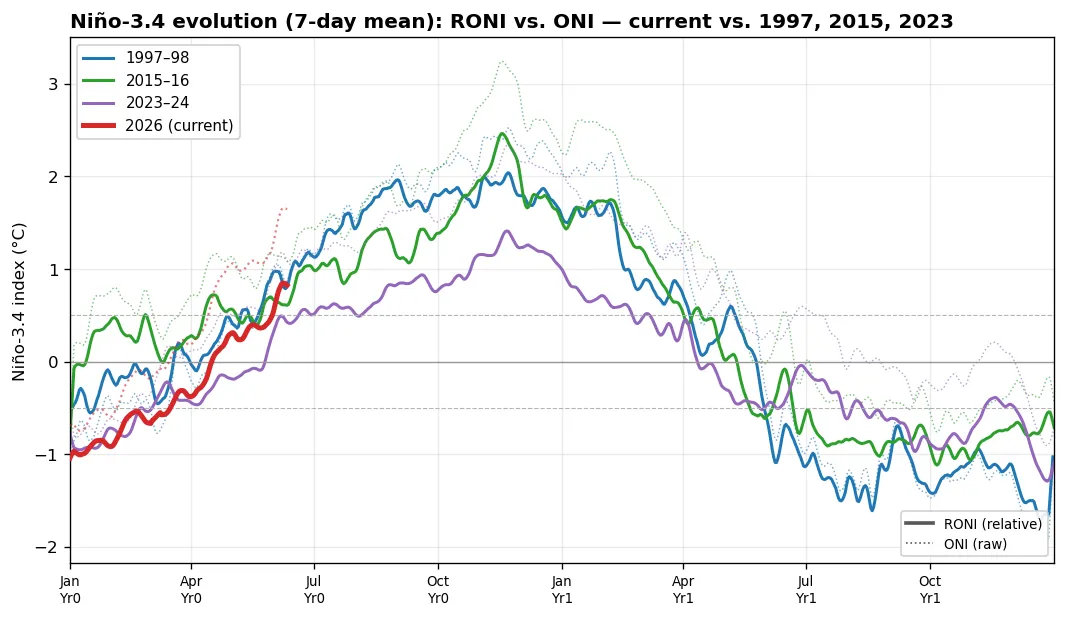
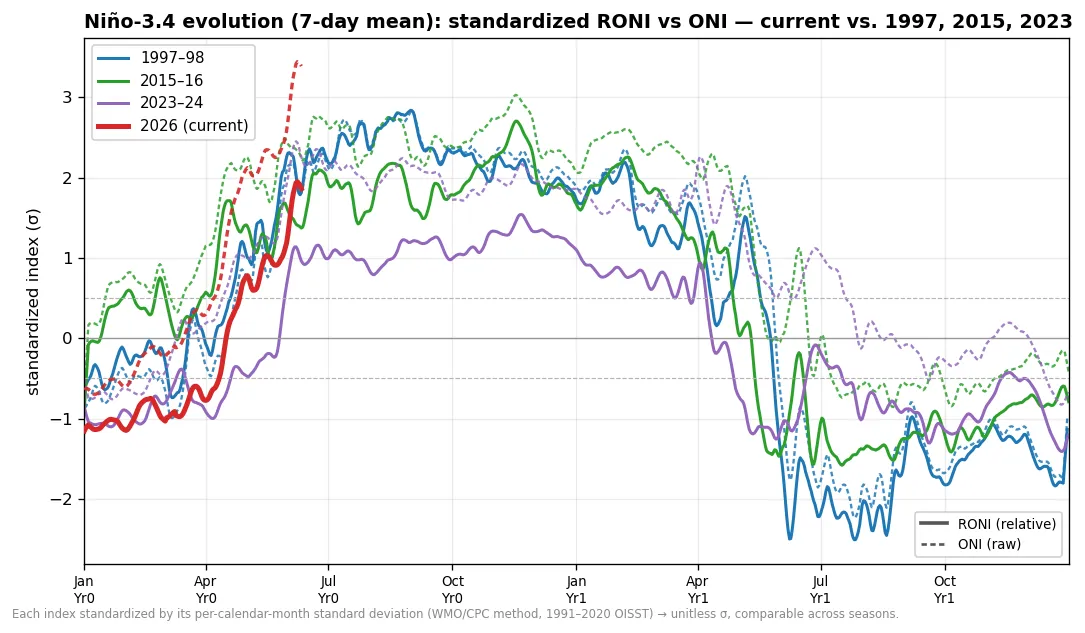
RONI: fix σ-axis overflow on the bar chart; standardize the analog chart to σ + bolder ONI
- render_roni: the standardized-σ line ran off the top because the σ axis was sized off the
  larger (negative) °C side only; size it so BOTH σ extremes fit while keeping zeros aligned.
- Analog "Niño-3.4 evolution" chart now plots the unitless standardized index: RONI and ONI are
  each divided by their own per-calendar-month σ (smoothly interpolated to day-of-year, no
  month-boundary steps), so the comparison is season-normalized; y-axis → σ. build_roni_sigma.py
  now also emits sigma_oni_by_month (raw Niño-3.4 σ) alongside the RONI σ.
- ONI reference lines made clearly visible (alpha 0.6→0.85, thicker, tighter dash) per request.

Changed region(s): [[0.0, 0.0, 0.9906, 0.9854], [0.2477, 0.0924, 0.2786, 0.1232]]

diff --git a/enso-analogs.html b/enso-analogs.html
@@ -262,7 +262,7 @@
         <h2>This Event vs. 1997, 2015 &amp; 2023</h2>
         <p>Niño-3.4 evolution (7-day running mean) through each event's development year and the next. Bold lines are <b>RONI</b> &mdash; the relative index (Niño-3.4 minus the 20&deg;S&ndash;20&deg;N tropical-mean anomaly), which removes the rising warming background so events decades apart are comparable; faint dotted lines are the raw <b>ONI</b> for reference. The current event is red. Note how 2015's record ONI shrinks toward 1997 once the background is removed.</p>
       </div>
-      <div class="img-wrap"><img src="assets/sst/events_nino34.webp?v=2738cc08c7db" alt="Niño-3.4 RONI vs ONI evolution: current event vs 1997/2015/2023" loading="lazy"></div>
+      <div class="img-wrap"><img src="assets/sst/events_nino34.webp?v=0e77b8b51cd5" alt="Niño-3.4 RONI vs ONI evolution: current event vs 1997/2015/2023" loading="lazy"></div>
       <div class="chart-card-footer"><span class="chart-sources">OISST v2.1 daily &middot; 7-day mean &middot; RONI = Niño-3.4 &minus; 20&deg;S&ndash;20&deg;N mean</span></div>
     </div>
 
@@ -272,7 +272,7 @@
         <h2>El Niño Flavor &mdash; Niño Regions vs. Analogs</h2>
         <p>Relative Niño-1+2 / 3 / 3.4 / 4 anomalies (7-day mean, each minus the 20&deg;S&ndash;20&deg;N tropical mean) at the same calendar day as the latest data, for the current event and the three analogs. Removing the tropical background makes the regions comparable across events; strong eastern (1+2, 3) relative to central (4) marks an East-Pacific-flavored event.</p>
       </div>
-      <div class="img-wrap"><img src="assets/sst/events_bars.webp?v=2738cc08c7db" alt="Relative Niño-region anomalies, current event vs analogs" loading="lazy"></div>
+      <div class="img-wrap"><img src="assets/sst/events_bars.webp?v=0e77b8b51cd5" alt="Relative Niño-region anomalies, current event vs analogs" loading="lazy"></div>
       <div class="chart-card-footer"><span class="chart-sources">OISST v2.1 daily &middot; 7-day mean &middot; relative to 20&deg;S&ndash;20&deg;N mean</span></div>
     </div>
 
@@ -282,7 +282,7 @@
         <h2>Matching-Phase SST Anomaly Maps</h2>
         <p>Relative SST anomaly &mdash; the area-weighted global-mean anomaly removed from each map &mdash; for the latest available week vs. the same calendar week in 1997, 2015 and 2023. Stripping the global mean removes the secular warming trend, so the ENSO spatial pattern is comparable across events that sat on very different baselines.</p>
       </div>
-      <div class="img-wrap"><img src="assets/sst/events_maps.webp?v=2738cc08c7db" alt="Matching-phase relative SST anomaly maps (global-mean removed)" loading="lazy"></div>
+      <div class="img-wrap"><img src="assets/sst/events_maps.webp?v=0e77b8b51cd5" alt="Matching-phase relative SST anomaly maps (global-mean removed)" loading="lazy"></div>
       <div class="chart-card-footer"><span class="chart-sources">OISST v2.1 daily &middot; 7-day mean &middot; global-mean removed</span></div>
     </div>
 
@@ -292,7 +292,7 @@
         <h2>Subsurface Heat Content vs. Analogs</h2>
         <p>Equatorial Pacific upper-ocean (0&ndash;300 m) temperature anomaly &mdash; a heat-content proxy that leads the surface &mdash; through each event's development year and the next, current (bold red) overlaid on 1997, 2015 and 2023. The subsurface warm reservoir is the fuel for El Ni&ntilde;o; watch whether the current build-up keeps pace with the analogs.</p>
       </div>
-      <div class="img-wrap"><img src="assets/sst/subsurface_events_hc.webp?v=2738cc08c7db" alt="Equatorial 0–300 m temperature-anomaly evolution: current vs 1997/2015/2023" loading="lazy"></div>
+      <div class="img-wrap"><img src="assets/sst/subsurface_events_hc.webp?v=0e77b8b51cd5" alt="Equatorial 0–300 m temperature-anomaly evolution: current vs 1997/2015/2023" loading="lazy"></div>
       <div class="chart-card-footer"><span class="chart-sources">NOAA/PMEL TAO/TRITON moorings &middot; anomaly vs 1991&ndash;2020 &middot; coverage varies by year</span></div>
     </div>
 
@@ -302,7 +302,7 @@
         <h2>Subsurface Heat Content vs. Analogs &mdash; De-trended</h2>
         <p>The same heat-content comparison with the 1991&ndash;2020 climate trend removed, so the four events sit on a common baseline. The net 0&ndash;300 m effect is modest &mdash; the subsurface warming and cooling trends largely cancel in the column average &mdash; but it eases the recent events (2023, current) down relative to 1997.</p>
       </div>
-      <div class="img-wrap"><img src="assets/sst/subsurface_events_hc_detrended.webp?v=2738cc08c7db" alt="Equatorial 0–300 m temperature-anomaly evolution, climate trend removed: current vs 1997/2015/2023" loading="lazy"></div>
+      <div class="img-wrap"><img src="assets/sst/subsurface_events_hc_detrended.webp?v=0e77b8b51cd5" alt="Equatorial 0–300 m temperature-anomaly evolution, climate trend removed: current vs 1997/2015/2023" loading="lazy"></div>
       <div class="chart-card-footer"><span class="chart-sources">NOAA/PMEL TAO/TRITON moorings &middot; de-trended 1991&ndash;2020 &middot; coverage varies by year</span></div>
     </div>
 
@@ -313,7 +313,7 @@
         <p>Equatorial depth&times;longitude temperature anomaly at the same phase (~the latest data week) of each event. The eastward-deepening warm anomaly along the thermocline is the classic El Ni&ntilde;o subsurface signature; comparing its depth and intensity against 1997/2015/2023 gauges how loaded the ocean is now.</p>
         <p><b>Note:</b> TAO mooring coverage varies by year (triangles mark moorings reporting), so 1997 and 2023 have missing longitudes.</p>
       </div>
-      <div class="img-wrap"><img src="assets/sst/subsurface_events_xsec.webp?v=2738cc08c7db" alt="Equatorial subsurface temperature-anomaly cross-sections: current vs 1997/2015/2023" loading="lazy"></div>
+      <div class="img-wrap"><img src="assets/sst/subsurface_events_xsec.webp?v=0e77b8b51cd5" alt="Equatorial subsurface temperature-anomaly cross-sections: current vs 1997/2015/2023" loading="lazy"></div>
       <div class="chart-card-footer"><span class="chart-sources">NOAA/PMEL TAO/TRITON moorings &middot; anomaly vs 1991&ndash;2020 &middot; 14-day mean &middot; coverage varies by year</span></div>
     </div>
 
@@ -324,7 +324,7 @@
         <p>The matching-phase cross-sections with the 1991&ndash;2020 climate trend removed. Because the trend has real depth&times;longitude structure &mdash; west-Pacific subsurface warming, eastern-thermocline cooling &mdash; de-trending reshapes the pattern more here than in the column-mean heat content above.</p>
         <p><b>Note:</b> TAO mooring coverage varies by year (triangles mark moorings reporting), so 1997 and 2023 have missing longitudes.</p>
       </div>
-      <div class="img-wrap"><img src="assets/sst/subsurface_events_xsec_detrended.webp?v=2738cc08c7db" alt="Equatorial subsurface temperature-anomaly cross-sections, climate trend removed: current vs 1997/2015/2023" loading="lazy"></div>
+      <div class="img-wrap"><img src="assets/sst/subsurface_events_xsec_detrended.webp?v=0e77b8b51cd5" alt="Equatorial subsurface temperature-anomaly cross-sections, climate trend removed: current vs 1997/2015/2023" loading="lazy"></div>
       <div class="chart-card-footer"><span class="chart-sources">NOAA/PMEL TAO/TRITON moorings &middot; de-trended 1991&ndash;2020 &middot; 14-day mean &middot; coverage varies by year</span></div>
     </div>
 
@@ -334,8 +334,8 @@
         <h2>Low-Level Wind vs. Analogs &mdash; 850 hPa Hovm&ouml;ller</h2>
         <p>Equatorial (5&deg;S&ndash;5&deg;N) 850 hPa zonal wind through the <b>developing year</b> (Jan&rarr;Nov of year 0) of each El Ni&ntilde;o, aligned by calendar so the current event sits beside its analogs at the same phase. Westerly anomalies (red) over the Indian Ocean&ndash;west Pacific push warm water east and sustain a developing event; the historical analogs show those westerlies expanding eastward through the year. Left: detrended anomaly (long-term trend removed). Right: absolute wind (easterly trades vs. westerly bursts). 5-day smoothed.</p>
       </div>
-      <div class="img-wrap"><img src="assets/sst/u850_analogs_anom.webp?v=2738cc08c7db" alt="850 hPa equatorial zonal-wind detrended-anomaly Hovmöllers: current 2026 vs 1982/1997/2015 developing years" loading="lazy"></div>
-      <div class="img-wrap"><img src="assets/sst/u850_analogs_abs.webp?v=2738cc08c7db" alt="850 hPa equatorial zonal-wind absolute Hovmöllers: current 2026 vs 1982/1997/2015 developing years" loading="lazy"></div>
+      <div class="img-wrap"><img src="assets/sst/u850_analogs_anom.webp?v=0e77b8b51cd5" alt="850 hPa equatorial zonal-wind detrended-anomaly Hovmöllers: current 2026 vs 1982/1997/2015 developing years" loading="lazy"></div>
+      <div class="img-wrap"><img src="assets/sst/u850_analogs_abs.webp?v=0e77b8b51cd5" alt="850 hPa equatorial zonal-wind absolute Hovmöllers: current 2026 vs 1982/1997/2015 developing years" loading="lazy"></div>
       <div class="chart-card-footer"><span class="chart-sources">ERA5 &mdash; WeatherBench2 1.5&deg; (1959&ndash;2023) + ARCO 0.25&deg; (current year) &middot; 5&deg;S&ndash;5&deg;N &middot; detrended vs day-of-year climatology &middot; updated daily</span></div>
     </div>
 

diff --git a/enso-atmosphere.html b/enso-atmosphere.html
@@ -323,7 +323,7 @@
         <p>Forecast 10 m zonal-wind anomaly (5&deg;S&ndash;5&deg;N), longitude &times; forecast day, from the AIFS-ENS (AI) and ECMWF IFS-ENS (physics) ensemble means vs. the ERA5 1991&ndash;2020 climatology.</p>
         <p><b>What to look for:</b> Westerly (red) anomalies along the equator push warm water eastward and favor El Ni&ntilde;o development; easterly (blue) anomalies favor La Ni&ntilde;a. Agreement between the AI and physics ensembles raises confidence.</p>
       </div>
-      <div class="img-wrap"><img src="assets/sst/eq_wind_hovmoller.webp?v=2738cc08c7db" alt="Equatorial Pacific 10 m zonal-wind anomaly Hovmöller forecast (AIFS-ENS and IFS-ENS)" loading="lazy"></div>
+      <div class="img-wrap"><img src="assets/sst/eq_wind_hovmoller.webp?v=0e77b8b51cd5" alt="Equatorial Pacific 10 m zonal-wind anomaly Hovmöller forecast (AIFS-ENS and IFS-ENS)" loading="lazy"></div>
       <div class="chart-card-footer"><span class="chart-sources">ECMWF AIFS-ENS &amp; IFS-ENS (open data) &middot; anomaly vs ERA5 1991&ndash;2020 &middot; updated each 00/12Z cycle</span></div>
     </div>
 
@@ -347,7 +347,7 @@
         <p><b>How to read it:</b> <i>top</i> &mdash; this year's observed AAM (black) and the 15-day forecast (red) on the climatological annual cycle. The hemispheres are strongly out of phase (each peaks in its own winter), so much of the absolute rise/fall is just the season. <i>Bottom</i> &mdash; the anomaly (departure from the 1991&ndash;2020 normal), which removes the seasonal cycle, with a &ldquo;% of climatology&rdquo; axis.</p>
         <p><b>Why it matters for ENSO:</b> El&nbsp;Ni&ntilde;o shifts tropical convection east, strengthens the subtropical jets and weakens the trade winds &mdash; so the atmosphere holds <b>more</b> westerly momentum. AAM also ties to the MJO / Global Wind Oscillation and to <b>length of day</b> (more atmospheric momentum &rarr; the solid Earth spins fractionally slower).</p>
       </div>
-      <div class="img-wrap"><img src="assets/sst/aam.webp?v=2738cc08c7db" alt="Global and hemispheric atmospheric angular momentum: observed + AIFS-ENS forecast, absolute and anomaly" loading="lazy"></div>
+      <div class="img-wrap"><img src="assets/sst/aam.webp?v=0e77b8b51cd5" alt="Global and hemispheric atmospheric angular momentum: observed + AIFS-ENS forecast, absolute and anomaly" loading="lazy"></div>
       <div class="chart-card-footer"><span class="chart-sources">Forecast: ECMWF AIFS-ENS (open data, CC BY 4.0) &middot; climatology &amp; this-year observed: ERA5 (Copernicus C3S / ECMWF) &middot; updated daily</span></div>
     </div>
 
@@ -356,7 +356,7 @@
       <div class="chart-card-header">
         <h2>AAM Forecast Trend (run-to-run)</h2>
       </div>
-      <div class="img-wrap"><img src="assets/sst/aam_trend.webp?v=2738cc08c7db" alt="Run-to-run trend of AIFS-ENS ensemble-mean AAM anomaly forecasts, global and hemispheric" loading="lazy"></div>
+      <div class="img-wrap"><img src="assets/sst/aam_trend.webp?v=0e77b8b51cd5" alt="Run-to-run trend of AIFS-ENS ensemble-mean AAM anomaly forecasts, global and hemispheric" loading="lazy"></div>
       <div class="chart-card-footer"><span class="chart-sources">ECMWF AIFS-ENS (open data, CC BY 4.0) &middot; anomaly vs ERA5 1991&ndash;2020 (Copernicus C3S) &middot; archived each cycle</span></div>
     </div>
 
@@ -371,10 +371,10 @@
       </div>
       <iframe class="anim-embed torque" src="sst_anim.html?embed=1&amp;manifest=torque_manifest.json&amp;region=torque"
               title="AAM surface-torque anomaly animation (friction + mountain) over the AIFS-ENS forecast" loading="lazy"></iframe>
-      <div class="img-wrap"><img src="assets/sst/torque_timeseries.webp?v=2738cc08c7db" alt="Hemispheric AAM torque budget time series (friction, mountain, sum) for NH and SH" loading="lazy"></div>
-      <div class="img-wrap"><img src="assets/sst/torque_ranges.webp?v=2738cc08c7db" alt="Mountain-torque anomaly broken down by range (Himalaya, Rockies, Andes, Greenland, Antarctica, Alps)" loading="lazy"></div>
-      <div class="img-wrap"><img src="assets/sst/torque_seasonal.webp?v=2738cc08c7db" alt="Seasonal cycle of the three AAM surface-torque terms (friction, mountain, GWD) by latitude, ERA5 1991-2020" loading="lazy"></div>
-      <div class="img-wrap"><img src="assets/sst/torque_seasonal_ts.webp?v=2738cc08c7db" alt="Seasonal cycle of the integrated AAM torque terms (friction, mountain, GWD, sum) for Global/NH/SH, ERA5 1991-2020" loading="lazy"></div>
+      <div class="img-wrap"><img src="assets/sst/torque_timeseries.webp?v=0e77b8b51cd5" alt="Hemispheric AAM torque budget time series (friction, mountain, sum) for NH and SH" loading="lazy"></div>
+      <div class="img-wrap"><img src="assets/sst/torque_ranges.webp?v=0e77b8b51cd5" alt="Mountain-torque anomaly broken down by range (Himalaya, Rockies, Andes, Greenland, Antarctica, Alps)" loading="lazy"></div>
+      <div class="img-wrap"><img src="assets/sst/torque_seasonal.webp?v=0e77b8b51cd5" alt="Seasonal cycle of the three AAM surface-torque terms (friction, mountain, GWD) by latitude, ERA5 1991-2020" loading="lazy"></div>
+      <div class="img-wrap"><img src="assets/sst/torque_seasonal_ts.webp?v=0e77b8b51cd5" alt="Seasonal cycle of the integrated AAM torque terms (friction, mountain, GWD, sum) for Global/NH/SH, ERA5 1991-2020" loading="lazy"></div>
       <div class="chart-card-footer"><span class="chart-sources">ECMWF AIFS-ENS surface pressure (open data, CC BY 4.0) &middot; ERA5 orography + 1991–2020 torque climatology (Copernicus C3S, seasonal-cycle panel) &middot; daily means &middot; updated daily</span></div>
     </div>
 

diff --git a/sst.html b/sst.html
@@ -324,7 +324,7 @@
         <p><b>How to read it:</b> Red bars (positive) lean El Ni&ntilde;o, blue bars (negative) lean La Ni&ntilde;a; the dashed lines mark the &plusmn;0.5&deg;C guides. The bars show RONI in <b>&deg;C</b>; the black line overlays the <b>WMO/CPC-style standardized RONI</b> &mdash; the same relative anomaly divided by its <b>standard deviation for that calendar month</b>. Because the relative-anomaly variance has a strong seasonal cycle (largest in boreal winter, smallest in spring), this monthly scaling makes a given value's significance comparable across seasons (it is the form CPC publishes). Both are computed directly from NOAA OISST v2.1 (1991&ndash;2020 base), with the per-month &sigma; derived from the 1991&ndash;2020 OISST record.</p>
       </div>
       <div class="img-wrap">
-        <img src="assets/sst/roni.webp?v=2738cc08c7db"
+        <img src="assets/sst/roni.webp?v=0e77b8b51cd5"
              alt="Relative Oceanic Niño Index time series" loading="lazy">
       </div>
       <div class="chart-card-footer">
@@ -341,7 +341,7 @@
         <p><b>What to look for:</b> When the red (Ni&ntilde;o-3.4) and green (tropical-mean) lines move together, the blue relative line stays flat &mdash; that's background warming, not ENSO. The blue line separating from zero is the genuine ENSO signal.</p>
       </div>
       <div class="img-wrap">
-        <img src="assets/sst/daily_indices.webp?v=2738cc08c7db"
+        <img src="assets/sst/daily_indices.webp?v=0e77b8b51cd5"
              alt="Daily Niño-3.4, tropical-mean, and relative SST indices" loading="lazy">
       </div>
       <div class="chart-card-footer">
@@ -358,22 +358,22 @@
         <p><b>How to read it:</b> The grey steps are the official bimonthly MEI.v2; the red line is our daily estimate, which leads the official value by roughly five weeks. The shaded band is the &plusmn;0.30 leave-one-year-out cross-validation error &mdash; the honest out-of-sample skill (the fit reproduces MEI.v2 at R&nbsp;=&nbsp;0.94). <b>Caveat:</b> the model is SST-weighted, so during a fast <i>SST-led</i> transition it can run ahead of MEI's slower atmospheric components &mdash; read a rapidly-rising live value as direction-and-timing rather than exact magnitude.</p>
       </div>
       <div class="img-wrap">
-        <img src="assets/sst/mei/mei_nowcast.webp?v=2738cc08c7db"
+        <img src="assets/sst/mei/mei_nowcast.webp?v=0e77b8b51cd5"
              alt="Daily nowcast of the Multivariate ENSO Index version 2" loading="lazy">
       </div>
       <div class="img-wrap">
         <p class="img-label">Onset-year analogs &mdash; is the current year tracking the big El Ni&ntilde;os?</p>
-        <img src="assets/sst/mei/mei_analogs.webp?v=2738cc08c7db"
+        <img src="assets/sst/mei/mei_analogs.webp?v=0e77b8b51cd5"
              alt="MEI.v2 onset-year analogs: 1982, 1997, 2015, 2023 vs the current nowcast" loading="lazy">
       </div>
       <div class="img-wrap">
         <p class="img-label">Full record since 1980</p>
-        <img src="assets/sst/mei/mei_history.webp?v=2738cc08c7db"
+        <img src="assets/sst/mei/mei_history.webp?v=0e77b8b51cd5"
              alt="Full Multivariate ENSO Index v2 record since 1980 with the live nowcast tail" loading="lazy">
       </div>
       <div class="img-wrap">
         <p class="img-label">Out-of-sample skill &mdash; the 2015&ndash;16 El Ni&ntilde;o</p>
-        <img src="assets/sst/mei/mei_validation.webp?v=2738cc08c7db"
+        <img src="assets/sst/mei/mei_validation.webp?v=0e77b8b51cd5"
              alt="Validation of the MEI.v2 nowcast over the 2015-16 El Niño" loading="lazy">
       </div>
       <div class="chart-card-footer">

diff --git a/enso-forecasts.html b/enso-forecasts.html
@@ -263,7 +263,7 @@
         <p>Ni&ntilde;o-3.4 SST-anomaly forecast plume from the GEM-NEMO component of Environment Canada's CanSIPS seasonal system (ensemble members 1&ndash;20), out ~11 months. <b>Traditional</b> (left) is the Ni&ntilde;o-3.4 anomaly vs the model's own 1991&ndash;2020 hindcast climatology; <b>relative</b> (right) subtracts the 20&deg;S&ndash;20&deg;N tropical-mean anomaly (RONI-style). Using the model's hindcast climatology removes its drift/bias.</p>
         <p>Bold red is the current issue's ensemble mean (thin red = members); dashed grey is <b>last month's</b> forecast (with its 10&ndash;90% spread) &mdash; where they overlap you can see how the outlook is trending month-to-month.</p>
       </div>
-      <div class="img-wrap"><img src="assets/sst/cansips_nino34.webp?v=2738cc08c7db" alt="CanSIPS GEM-NEMO Niño-3.4 forecast plume (traditional + relative), current vs previous issue" loading="lazy"></div>
+      <div class="img-wrap"><img src="assets/sst/cansips_nino34.webp?v=0e77b8b51cd5" alt="CanSIPS GEM-NEMO Niño-3.4 forecast plume (traditional + relative), current vs previous issue" loading="lazy"></div>
       <div class="chart-card-footer"><span class="chart-sources">ECCC CanSIPS GEM-NEMO (datamart) &middot; anomaly vs 1991&ndash;2020 model hindcast &middot; updated monthly</span></div>
     </div>
 
@@ -274,7 +274,7 @@
         <p>The Troup SOI (the standardized Tahiti&minus;Darwin sea-level-pressure difference) tracks the atmospheric side of ENSO. Observed values are from LongPaddock (Queensland Govt / BoM); the forecast is the Tahiti&minus;Darwin MSL from the combined AIFS-ENS + IFS-ENS ensemble (~100 members), bias-corrected to the recent observed level. Bold lines are the 30-day running SOI; the faint daily series and shaded 10&ndash;90% band show the noisier day-to-day spread.</p>
         <p><b>How to read it:</b> Sustained <b>negative</b> SOI (below &minus;7) is El Ni&ntilde;o-favorable; sustained <b>positive</b> (above +7) is La Ni&ntilde;a-favorable. A forecast that holds the 30-day SOI deep negative reinforces an El Ni&ntilde;o signal.</p>
       </div>
-      <div class="img-wrap"><img src="assets/sst/soi_forecast.webp?v=2738cc08c7db" alt="Southern Oscillation Index: observed (LongPaddock/BoM) plus AIFS-ENS/IFS-ENS forecast" loading="lazy"></div>
+      <div class="img-wrap"><img src="assets/sst/soi_forecast.webp?v=0e77b8b51cd5" alt="Southern Oscillation Index: observed (LongPaddock/BoM) plus AIFS-ENS/IFS-ENS forecast" loading="lazy"></div>
       <div class="chart-card-footer"><span class="chart-sources">LongPaddock daily SOI (BoM, 1933&ndash;1992 base) &middot; forecast: ECMWF AIFS-ENS + IFS-ENS MSL &middot; updated each 00/12Z cycle</span></div>
     </div>
 

diff --git a/scripts/sst/sst_events.py b/scripts/sst/sst_events.py
@@ -106,6 +106,35 @@ def region_daily(ds, var, la, lo, region, relative=False) -> pd.Series:
     return s
 
 
+def _sigma_doy(key):
+    """Smooth σ(day-of-year 1..366) from the 12 monthly σ in roni_sigma.json (periodic interp).
+
+    key = 'sigma_by_month' (RONI) or 'sigma_oni_by_month' (ONI). Returns a length-366 array
+    (indexed by doy−1) or None if the table is absent → the chart falls back to raw °C.
+    """
+    import json
+    p = HERE / "roni_sigma.json"
+    if not p.exists():
+        return None
+    tab = json.loads(p.read_text()).get(key)
+    if not tab:
+        return None
+    months = np.arange(1, 13)
+    mid = np.array([pd.Timestamp(2001, m, 15).dayofyear for m in months], float)
+    vals = np.array([tab[str(m)] for m in months], float)
+    x = np.concatenate(([mid[-1] - 365], mid, [mid[0] + 365]))      # periodic wrap (Dec↔Jan)
+    y = np.concatenate(([vals[-1]], vals, [vals[0]]))
+    return np.interp(np.arange(1, 367), x, y)
+
+
+def _standardize(series, sigma_doy):
+    """Daily series ÷ σ(day-of-year) → standardized (σ units); pass-through if σ unavailable."""
+    if sigma_doy is None:
+        return series
+    doy = pd.DatetimeIndex(series.index).dayofyear.values
+    return series / pd.Series(sigma_doy[doy - 1], index=series.index)
+
+
 # ── 1. Niño-3.4 weekly evolution overlay ──────────────────────────────────────
 def overlay_nino34(out: Path):
     y0 = current_year()
@@ -114,16 +143,23 @@ def overlay_nino34(out: Path):
     roni = region_daily(ds, var, la, lo, "3.4", relative=True)   # RONI (primary)
     oni = region_daily(ds, var, la, lo, "3.4")                   # raw ONI (reference)
 
+    # Standardize to unitless σ by the per-calendar-month climatological SD (WMO/CPC method),
+    # interpolated to a smooth day-of-year curve so there are no month-boundary steps.
+    sig_r, sig_o = _sigma_doy("sigma_by_month"), _sigma_doy("sigma_oni_by_month")
+    std = sig_r is not None
+    roni, oni = _standardize(roni, sig_r), _standardize(oni, sig_o)
+
     fig, ax = plt.subplots(figsize=(9, 5.2))
     def devdays(idx, yr):
         return (idx - pd.Timestamp(yr, 1, 1)).days
     def draw(s, yr, col, lw, **kw):
         seg = s[f"{yr}":f"{yr+1}"] if yr in ANALOGS else s[f"{yr}":]
         ax.plot(devdays(seg.index, yr), seg.values, color=col, lw=lw, **kw)
+    ODASH = (0, (2, 1.3))                                          # tighter dots → ONI reads better
     for yr in ANALOGS:
-        draw(oni, yr, ANALOG_COLORS[yr], 0.9, ls=":", alpha=0.6)            # ONI faint
+        draw(oni, yr, ANALOG_COLORS[yr], 1.4, ls=ODASH, alpha=0.85)          # ONI (now clearly visible)
         draw(roni, yr, ANALOG_COLORS[yr], 1.8, label=f"{yr}–{str(yr+1)[2:]}")  # RONI bold
-    draw(oni, y0, "#d62728", 1.3, ls=":", alpha=0.6, zorder=5)
+    draw(oni, y0, "#d62728", 2.0, ls=ODASH, alpha=0.9, zorder=5)
     draw(roni, y0, "#d62728", 3.0, label=f"{y0} (current)", zorder=6)
     ax.axhline(0, color="0.6", lw=0.8)
     for g in (0.5, -0.5):
@@ -135,22 +171,30 @@ def overlay_nino34(out: Path):
     ax.set_xticklabels([f"{m}\nYr0" for m in ("Jan", "Apr", "Jul", "Oct")] +
                        [f"{m}\nYr1" for m in ("Jan", "Apr", "Jul", "Oct")], fontsize=8)
     ax.set_xlim(0, 730)
-    ax.set_ylabel("Niño-3.4 index (°C)")
+    ax.set_ylabel("standardized index (σ)" if std else "Niño-3.4 index (°C)")
     # style legend: solid = RONI, dotted = ONI
     style_h = [plt.Line2D([], [], color="0.35", lw=2.2, label="RONI (relative)"),
-               plt.Line2D([], [], color="0.35", lw=1.0, ls=":", label="ONI (raw)")]
+               plt.Line2D([], [], color="0.35", lw=1.6, ls=ODASH, label="ONI (raw)")]
     leg2 = ax.legend(handles=style_h, fontsize=8, loc="lower right", framealpha=0.9)
     ax.add_artist(leg2)
-    ax.set_title("Niño-3.4 evolution (7-day mean): RONI vs. ONI — current vs. 1997, 2015, 2023",
-                 fontsize=12, fontweight="bold", loc="left")
+    title = ("Niño-3.4 evolution (7-day mean): standardized RONI vs ONI — current vs. 1997, 2015, 2023"
+             if std else
+             "Niño-3.4 evolution (7-day mean): RONI vs. ONI — current vs. 1997, 2015, 2023")
+    ax.set_title(title, fontsize=11.5, fontweight="bold", loc="left")
     ax.legend(fontsize=9, loc="upper left", framealpha=0.9)
     ax.grid(True, alpha=0.25)
+    if std:
+        fig.text(0.005, 0.002,
+                 "Each index standardized by its per-calendar-month standard deviation "
+                 "(WMO/CPC method, 1991–2020 OISST) → unitless σ, comparable across seasons.",
+                 fontsize=7, color="#888")
     fig.tight_layout()
     out.parent.mkdir(parents=True, exist_ok=True)
     fig.savefig(out, dpi=120, bbox_inches="tight")
     plt.close(fig)
+    unit = "σ" if std else "°C"
     print(f"wrote {out} (latest {roni.index[-1]:%Y-%m-%d} RONI {roni.iloc[-1]:+.2f} / "
-          f"ONI {oni.reindex([roni.index[-1]]).iloc[0]:+.2f}°C)")
+          f"ONI {oni.reindex([roni.index[-1]]).iloc[0]:+.2f}{unit})")
 
 
 # ── 2. Multi-region flavor bars ───────────────────────────────────────────────

diff --git a/scripts/sst/build_roni_sigma.py b/scripts/sst/build_roni_sigma.py
@@ -59,22 +59,29 @@ def main() -> int:
 
     nino = _box(anom, NINO34)
     trop = _box(anom, TROPICAL)
-    rel = (nino - trop).to_series().sort_index()
-    rel3 = rel.rolling(3, center=True, min_periods=3).mean()     # the RONI 3-month running mean
-    base = rel3[(rel3.index.year >= BASE[0]) & (rel3.index.year <= BASE[1])]
 
-    sigma = {int(m): float(base[base.index.month == m].std(ddof=1)) for m in range(1, 13)}
-    counts = {int(m): int((base.index.month == m).sum()) for m in range(1, 13)}
+    def per_month_sigma(series3):
+        b = series3[(series3.index.year >= BASE[0]) & (series3.index.year <= BASE[1])]
+        return {int(m): float(b[b.index.month == m].std(ddof=1)) for m in range(1, 13)}
+
+    rel3 = (nino - trop).to_series().sort_index().rolling(3, center=True, min_periods=3).mean()   # RONI
+    oni3 = nino.to_series().sort_index().rolling(3, center=True, min_periods=3).mean()            # ONI (raw)
+    sigma = per_month_sigma(rel3)            # RONI σ (used by the °C↔σ readout + chart)
+    sigma_oni = per_month_sigma(oni3)        # ONI σ (raw Niño-3.4), for the standardized analog chart
+    counts = {int(m): int(((rel3.index.year >= BASE[0]) & (rel3.index.year <= BASE[1])
+                           & (rel3.index.month == m)).sum()) for m in range(1, 13)}
     OUT.parent.mkdir(parents=True, exist_ok=True)
     OUT.write_text(json.dumps({
         "sigma_by_month": sigma,
+        "sigma_oni_by_month": sigma_oni,
         "base_period": f"{BASE[0]}-{BASE[1]}",
         "n_years_by_month": counts,
         "source": "NOAA OISST v2.1 monthly (PSL)",
-        "definition": ("standard deviation (ddof=1) of the 3-month-running-mean relative "
-                       "Niño-3.4 index (Niño-3.4 − tropical[20S-20N] anomaly), per center month"),
+        "definition": ("standard deviation (ddof=1) of the 3-month-running-mean index per center "
+                       "month — sigma_by_month: relative Niño-3.4 (RONI); sigma_oni_by_month: raw Niño-3.4 (ONI)"),
     }, indent=2))
-    print("σ by month (°C):", {m: round(s, 3) for m, s in sigma.items()})
+    print("RONI σ by month (°C):", {m: round(s, 3) for m, s in sigma.items()})
+    print("ONI  σ by month (°C):", {m: round(s, 3) for m, s in sigma_oni.items()})
     print(f"wrote {OUT}")
     return 0
 

diff --git a/scripts/sst/sst-roni.py b/scripts/sst/sst-roni.py
@@ -636,9 +636,10 @@ def render_roni(df: pd.DataFrame, out_path: Path,
     hi = max(vmax, 0.6) + 0.15
     lo = min(vmin, -0.6) - 0.15
     ax.set_ylim(lo, hi)
-    if has_std:                                          # scale \u03c3 axis by the same lo:hi ratio \u21d2 zeros align
-        smax = float(np.nanmax(np.abs(df["roni_std"].values)))
-        s = (smax * 1.18) / max(hi, -lo) if smax > 0 else 1.0
+    if has_std:                                          # \u03c3 axis keeps the \u00b0C lo:hi ratio (zeros align),
+        sp = float(np.nanmax(df["roni_std"].values))     # sized so BOTH \u03c3 extremes fit with headroom
+        sn = float(np.nanmin(df["roni_std"].values))
+        s = max(sp / hi if sp > 0 else 0.0, (-sn) / (-lo) if sn < 0 else 0.0, 1e-6) * 1.10
         ax2.set_ylim(lo * s, hi * s)
 
     ax.set_ylabel("RONI (\u00b0C)", fontsize=11)
